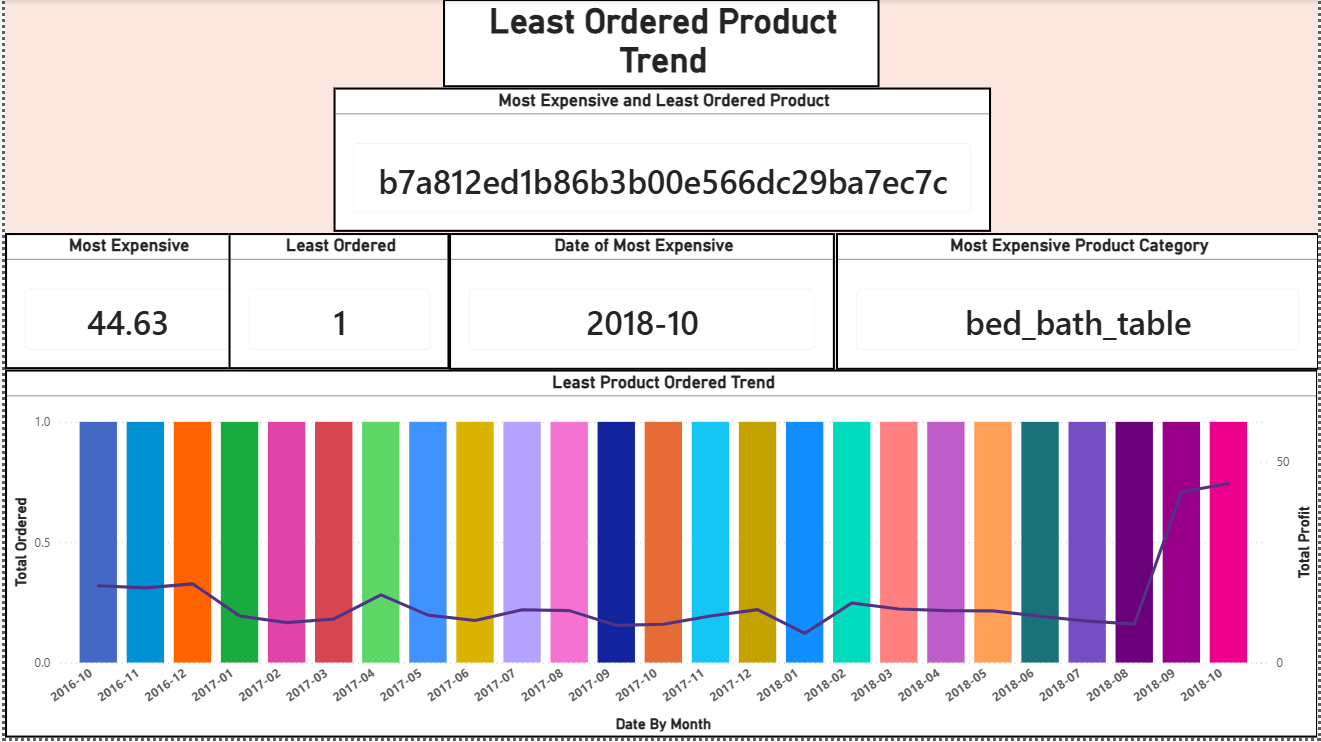
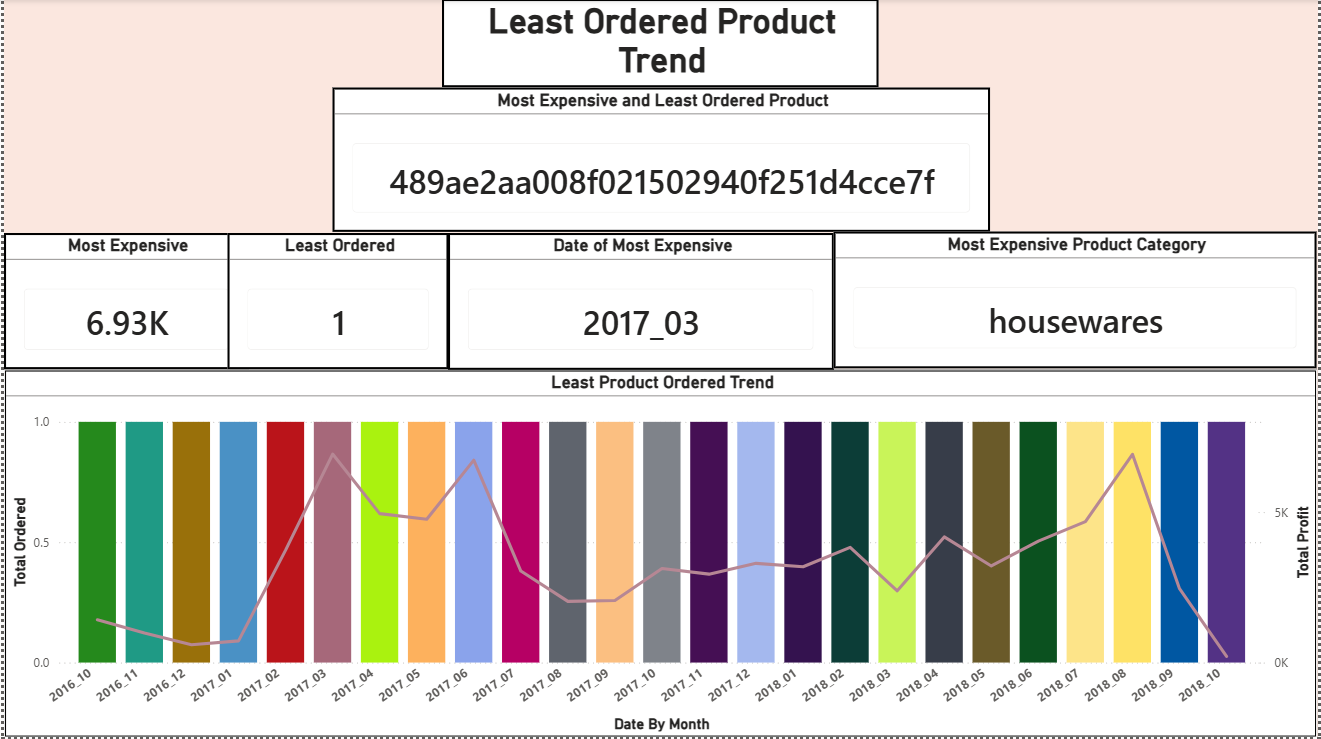
Completed Analysis on the Most/Least ordered products.
Added more images regrading reviews

diff --git a/index.md b/index.md
@@ -14,7 +14,7 @@
 # Analysis
 ---
 ## What is the Most/Least common payment type?
-![alt text](img/Most_Common_Payment_Type.png)
+![alt text](img/Customer_Payment/Most_Common_Payment_Type.png)
 
 ### What is the most used payment method?
 1. Credit card dominates Olist's payments mix at ~74% of orders, followed by boleto ~19% of orders. Vouchers and debit card are marginal at under ~8% combined. This suggest that credit card functionality (especially installments) is the path for the business
@@ -31,19 +31,42 @@
     1. ~2% of user bases uses debit cards. So optimizing it would provide negligible ROI.
 
 ## Which products/product categories were the most/least Ordered?
-![alt text](img/Most_Least_Ordered_Product.png)
+![alt text](img/Ordered_Products/Most_Least_Ordered_Product.png)
 ### What product and product category was most Ordered?
-![alt text](img/Most_Ordered_Product_Trend.png)
+![alt text](img/Ordered_Products/Most_Ordered_Product_Trend.png)
 1. **Product**:
     1. **What is the Most Ordered Product?**:
-        1. From 2016-2018, aca2eb7d00ea1a7b8ebd4e68314663af(a Furniture Decor) is the most ordered of all time, and from the trend we can see 2018-01 and started to trend downward hitting its low at 2016-06.
-    2. **Why was it popular and why did it start losing popularity?**
-        1. From the good reviews, we can see that the customers loved the product. It is easy to assemble, delivered on time, and looks pretty. 
-        ![alt text](img/Product_Reviews/Furniture_Decor_Most_1.png)
-        2. From the bad reviews, customers were dissatisfied by the service rather then the product. Complaints mainly stems from customers not receiving the product they desired.
-        ![alt text](img/Product_Reviews/Furniture_Decor_Most_WorstReview.png)
-    2. Least/Most Expensive:
-        1. 
+        1. From 2016-2018, **aca2eb7d00ea1a7b8ebd4e68314663af(a Furniture Decor, going to call it FD)** is the most ordered of all time, and from the trend we can see 2018-01 and started to trend downward hitting its low at 2016-06.
+
+        2. But from the Trend we can see that **Watches Gift (going to call it WG)** is the most ordered product till the latest date at 2018-10(this is when Olist stopped giving out public data)
+
+        2. **Why was it popular and why did it start losing popularity?**
+            1. **FD**
+                1. From the good reviews, we can see that the customers loved the product. It is easy to assemble, delivered on time, and looks pretty. 
+                ![alt text](img/Product_Reviews/Furniture_Decor_Most_1.png)
+                2. From the bad reviews, customers were dissatisfied by the service rather then the product. Complaints mainly stems from customers not receiving the product they desired.
+                ![alt text](img/Product_Reviews/Furniture_Decor_Most_WorstReview.png)
+            2. **WD**
+                1. From the reviews, customers were satisfied with the watches prices and the delivery. But there were small amount of bad reviews that didn't get the product delivered or didn't like the quality for it.
+                ![alt text](img/Product_Reviews/Watches_Gift_Positive_Review.png)
+
+        3. **What should we do?**
+            1. Before we get into the products, we need to first address the products not getting delivered or not properly being delivered. There needs to be an investigation on the distribution/shipping departments regrading these issues and a meeting to figure out way for a smoother and on time delivery methods. 
+            1. **FD**
+                1. From the trend we see that the FD is getting ordered less and less. I assume the reason is bad customer service and reviews. We can see from the reviews that the product was not getting delivered properly, which might've discouraged customers from buying the product or it just fell out of popularity. 
+                2. We should have less of this FD in the stock, but not completely remove it.
+            2. **WD**
+                1. **WD** stayed popular till the latest orders data available, we should invest more in Watches Gift in general. 
+        
+    2. **What is the Least Ordered and Most Expensive Product**:
+        1. The Least Ordered and Most Expensive product is 489ae2aa008f021502940f251d4cce7f(a housewares product). Only one person has ordered this product, while costing ~6929 R$ (1 Brazilian Real = 0.20 USD as of September 21 2026)
+
+        2. **Why is it not getting ordered as much?**
+            1. From the Reviews, we can see that the customer was satisfied with the order. So the product itself isn't the issue.
+            ![alt text](img/Product_Reviews/Houseware_Review.png)
+            2. From the trend we can see the last time this product was ordered was at 2017-03.
+            ![alt text](img/Ordered_Products/Least_Ordered_Product_Trend.png)
+            3. So the only reason left for the reason why this product is not getting ordered as much is that it's **simply too expensive**
 
 
 ## Which State has the Most/Least Customers/Sellers?
